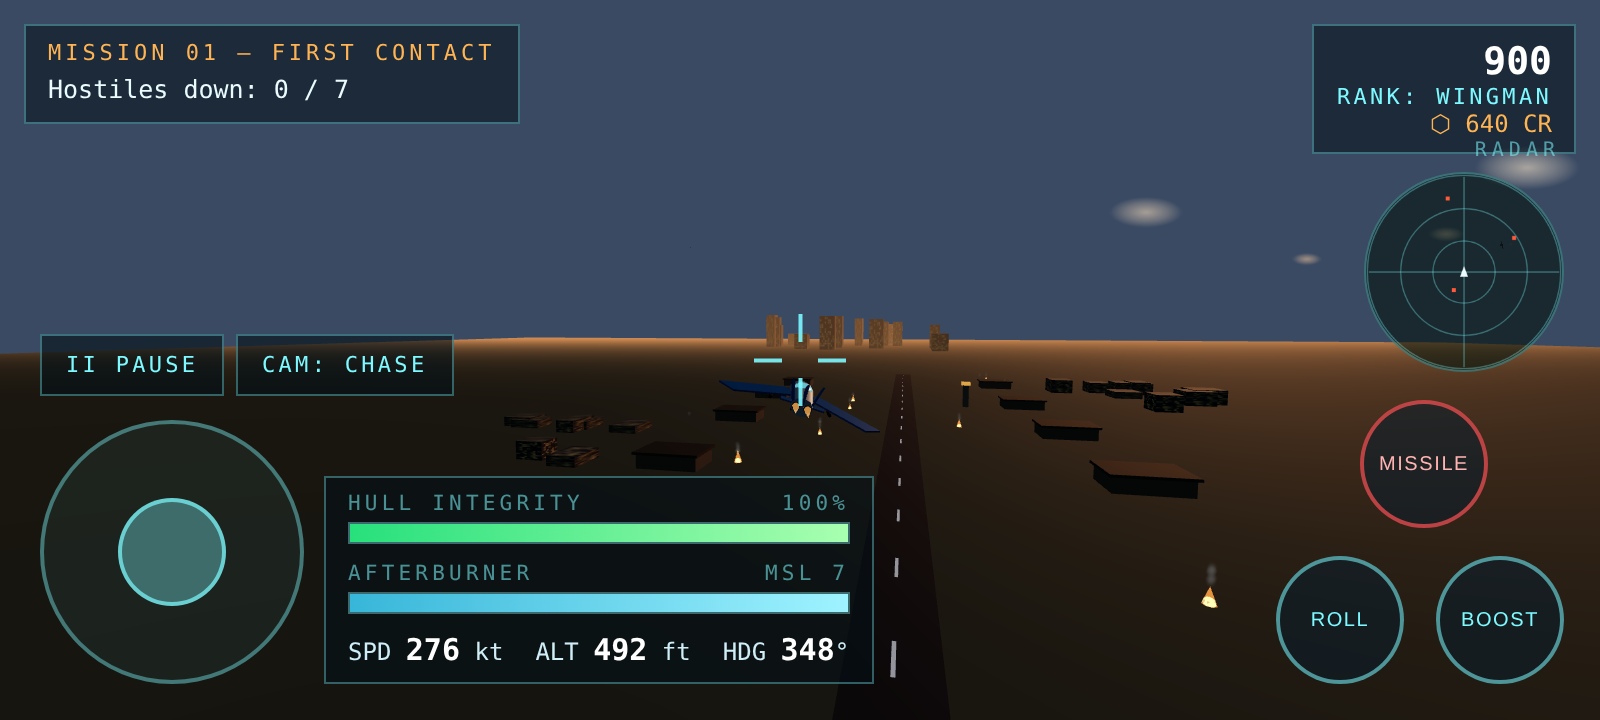
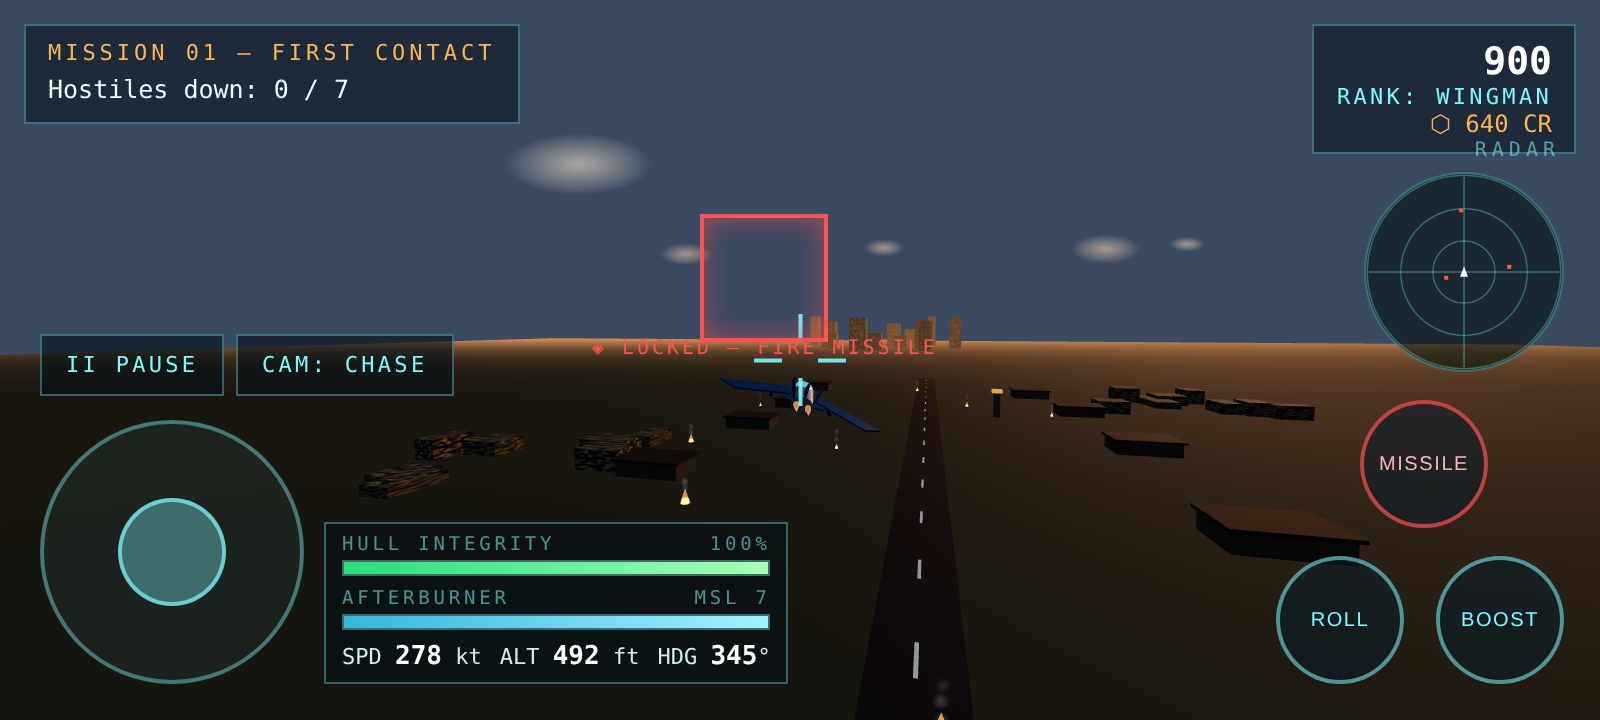
Compact touch gauge panel (smaller width, bars, fonts)

diff --git a/index.html b/index.html
@@ -191,7 +191,11 @@
   #stick-base{touch-action:none}
   .tbtn{touch-action:none}
   body.touch #stick-base{left:20px;bottom:18px;width:132px;height:132px}
-  body.touch #hud-bottom-left{left:162px;bottom:18px;min-width:178px}
+  body.touch #hud-bottom-left{left:162px;bottom:18px;min-width:156px;padding:5px 8px}
+  body.touch #hud-bottom-left .bar{height:8px;margin:2px 0 6px}
+  body.touch #hud-bottom-left .barlabel{font-size:9.5px}
+  body.touch #hud-gauges{gap:9px;font-size:11px;flex-wrap:wrap;row-gap:2px}
+  body.touch #hud-gauges b{font-size:13px}
   body.touch #btn-pause{top:auto;bottom:162px;left:20px}
   body.touch #btn-camera{top:auto;bottom:162px;left:118px;right:auto}
   body.touch #btn-end-sortie{position:absolute;top:auto !important;bottom:200px;left:20px}
